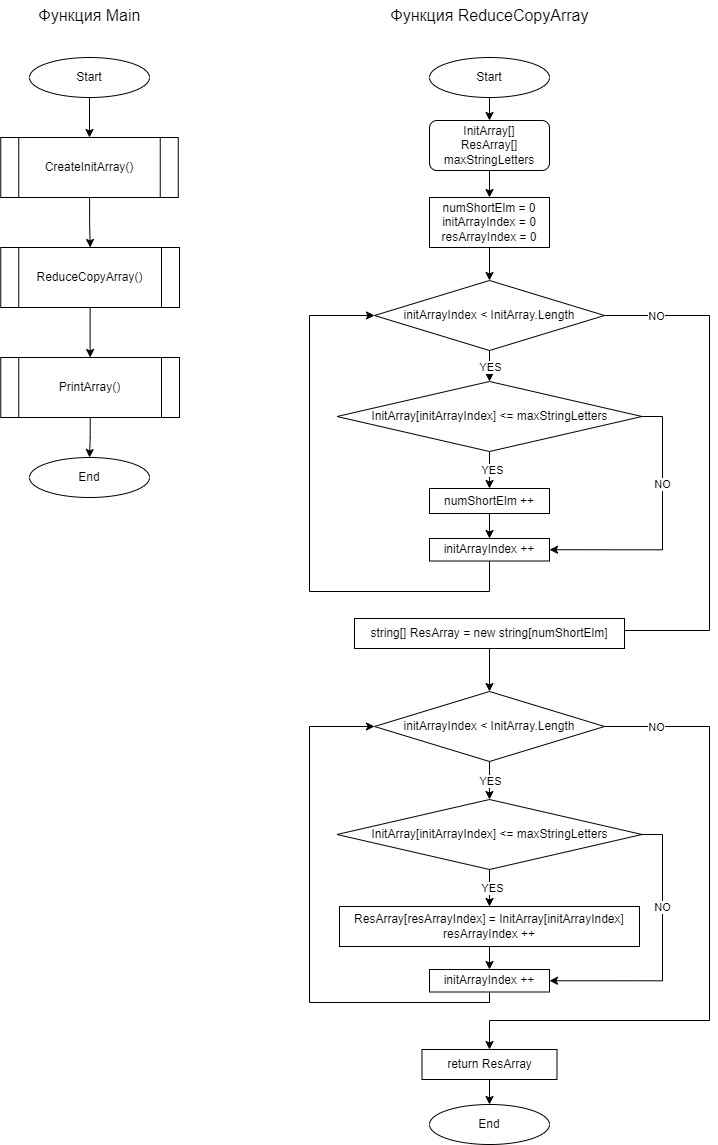
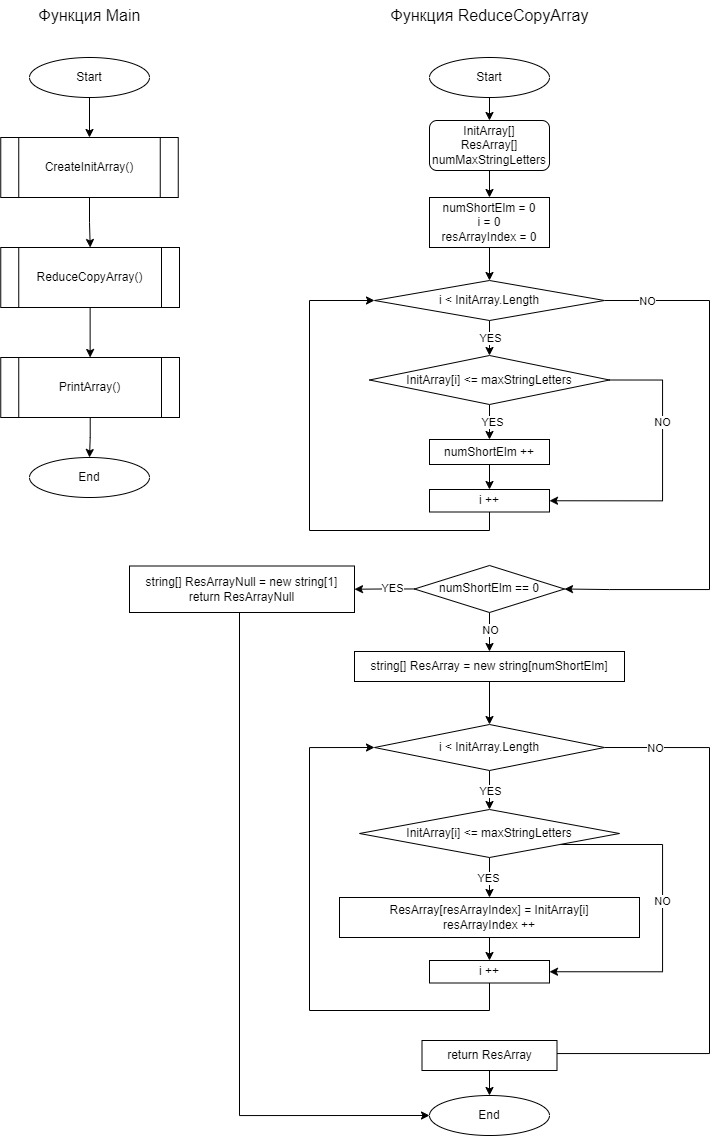
Scheme correction

diff --git a/Task/Program.cs b/Task/Program.cs
@@ -1,5 +1,9 @@
-string[] CreateArray(int initArrayLength)
+string[] CreateArray()
 {
+    Console.Write("Введите количество элементов массива: ");
+    int initArrayLength = Convert.ToInt32(Console.ReadLine());
+    Console.WriteLine("Введите последовательно элементы массива в виде строк: ");
+
     string[] array = new string[initArrayLength];
 
     for (int i = 0; i < array.Length; i++)
@@ -20,6 +24,12 @@ string[] ReduceCopyArray(string[] array, int numMaxStringLetters)
         {
             numShortElm ++;
         }
+    }
+
+    if (numShortElm == 0)
+    {
+        string[] ResultArrayNull = new string[1];
+        return ResultArrayNull;
     }
 
     string[] ResultArray = new string[numShortElm];
@@ -47,8 +57,7 @@ void PrintArray(string[] array)
     Console.WriteLine($"{array[array.Length - 1]}]");
 }
 
-
-string[] InitArray = CreateArray(5);
+string[] InitArray = CreateArray();
 PrintArray(InitArray);
 string[] ResArray = ReduceCopyArray(InitArray, 3);
 PrintArray(ResArray);

diff --git a/Task/obj/Debug/net8.0/Task.AssemblyInfo.cs b/Task/obj/Debug/net8.0/Task.AssemblyInfo.cs
@@ -13,7 +13,7 @@ using System.Reflection;
 [assembly: System.Reflection.AssemblyCompanyAttribute("Task")]
 [assembly: System.Reflection.AssemblyConfigurationAttribute("Debug")]
 [assembly: System.Reflection.AssemblyFileVersionAttribute("1.0.0.0")]
-[assembly: System.Reflection.AssemblyInformationalVersionAttribute("1.0.0+f00f2560edc7e9963d1b34edc4cf9d2e36290416")]
+[assembly: System.Reflection.AssemblyInformationalVersionAttribute("1.0.0+a23e05d4cd96b3e020165f17e9a96a048645aee1")]
 [assembly: System.Reflection.AssemblyProductAttribute("Task")]
 [assembly: System.Reflection.AssemblyTitleAttribute("Task")]
 [assembly: System.Reflection.AssemblyVersionAttribute("1.0.0.0")]
